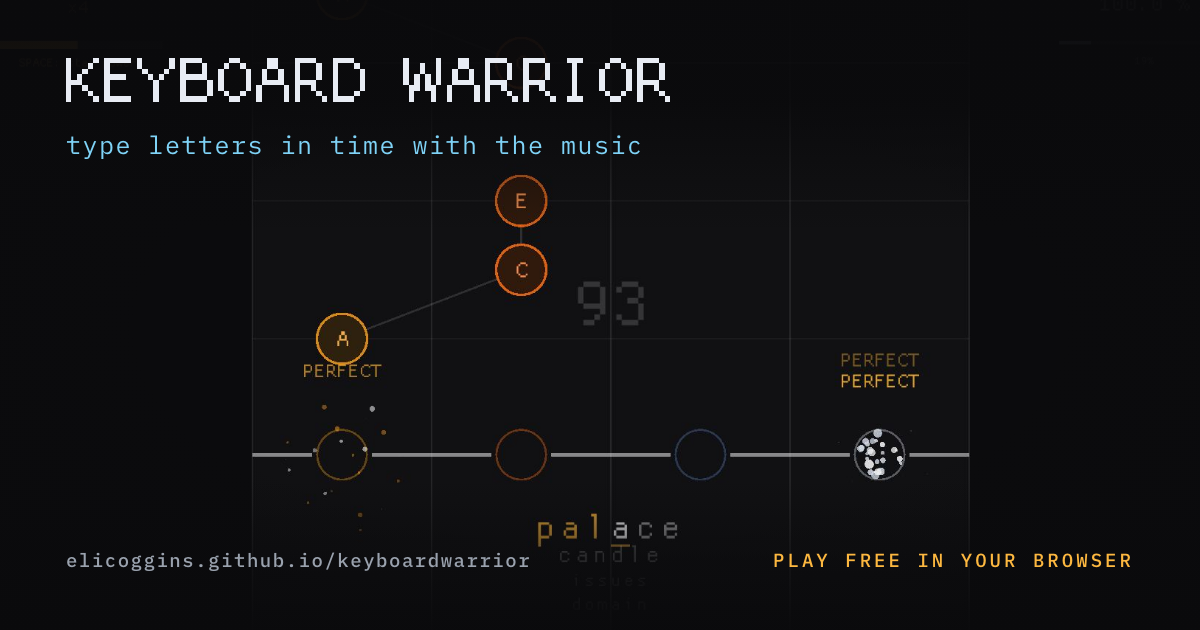
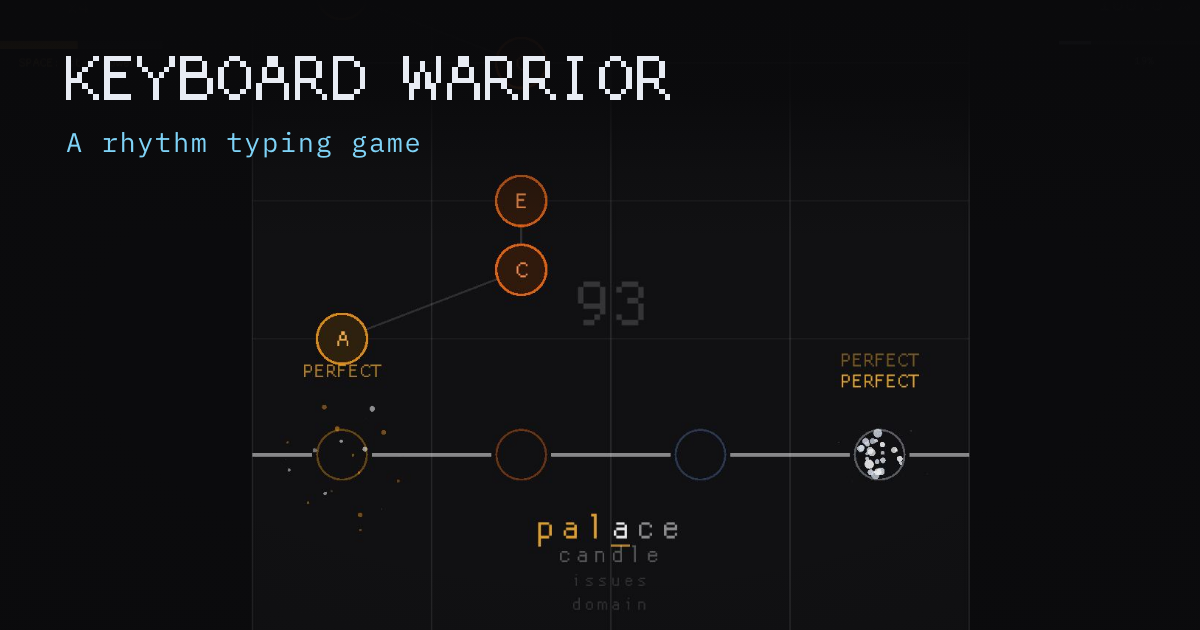
new wasm

diff --git a/keyboardwarrior/index.html b/keyboardwarrior/index.html
@@ -339,13 +339,17 @@
         color: var(--dim);
       }
 
-      /* Qualified by the element, or the rule above out-specifies these and
-         sets the title in body copy. */
-      .fallback p.fallback__mark {
-        font-size: clamp(1.75rem, 9vw, 2.75rem);
-        line-height: 1.15;
-        letter-spacing: 0.04em;
-        color: var(--bright);
+      /* Traced from ProggyClean at the 8-pixel cap height the game's own atlas
+         is baked at, and drawn as geometry rather than set as type. The webfont
+         is the same face and is correct everywhere else on the page, but its
+         outlines antialias — at this size, beside a screenshot of the game
+         drawing the identical words as hard pixel blocks, smooth edges read as
+         the wrong font. crispEdges keeps the grid square at any width. */
+      .fallback__mark {
+        display: block;
+        width: min(21rem, 88%);
+        height: auto;
+        fill: var(--bright);
       }
 
       .fallback p.fallback__sub {
@@ -367,15 +371,32 @@
       .stage[data-mode="unsupported"] .screen { overflow: visible; }
       .stage[data-mode="unsupported"] .fallback { position: static; width: 100%; }
 
+      /* Two ways to fill the screen, because only one of them can be trusted
+         with the ESC key. Which one is chosen is decided in script; both are
+         announced here as data-fs so the rest of the page needs no branch. */
+      .stage[data-fs] .rail { display: none; }
+      .stage[data-fs] #glcanvas { max-width: none; }
+
       .stage:fullscreen { height: 100%; background: var(--bg); }
-      .stage:fullscreen .rail { display: none; }
-      .stage:fullscreen #glcanvas { max-width: none; }
+
+      /* The page's own fullscreen, for browsers that would spend ESC leaving
+         the real one. It gives up the browser's chrome — a strip of height the
+         native path reclaims — and in exchange nothing but this page decides
+         what ESC means. */
+      .stage[data-fs="page"] {
+        position: fixed;
+        inset: 0;
+        z-index: 50;
+        height: 100%;
+        background: var(--bg);
+      }
+
+      html.kw-filled, html.kw-filled body { overflow: hidden; }
 
       /* Safari below 16.4 only has the prefixed form, and one unknown pseudo
-         would throw away the whole selector list — so it gets its own rules. */
+         would throw away the whole selector list — so it gets its own rule.
+         Everything else it needs comes from the data-fs rules above. */
       .stage:-webkit-full-screen { height: 100%; background: var(--bg); }
-      .stage:-webkit-full-screen .rail { display: none; }
-      .stage:-webkit-full-screen #glcanvas { max-width: none; }
 
       /* The menu rules its song list off with a hairline broken by centred type
          (see the alphabet markers in scene/menu.rs). The same rule closes the
@@ -441,20 +462,34 @@
          about 0.44em to the character, so 36rem is roughly 78 of them — long
          enough for the GL_RENDERER note, short enough to read down. Headings
          stay centred over it, the way the menu centres its own labels. */
+      /* ProggyClean advances 0.4375em, so at 18px the column below runs to
+         about eighty characters — the measure a monospace face has been read
+         at for as long as there have been terminals. The side padding is its
+         own, narrower than --gutter, because the gutter is sized for the game
+         above and would spend that measure on empty margin. */
       .sheet {
-        width: min(36rem, 100%);
+        width: min(42rem, 100%);
         margin: 0 auto;
-        padding: clamp(1rem, 3vh, 2rem) var(--gutter) clamp(2.5rem, 7vh, 4rem);
+        padding: clamp(1rem, 3vh, 2rem) clamp(1rem, 3vw, 1.4rem) clamp(2.5rem, 7vh, 4rem);
         text-wrap: pretty;
       }
 
       .lede {
         margin: 0 0 clamp(2rem, 5vh, 3rem);
-        font-size: 1.25rem;
+        font-size: 1.375rem;
         line-height: 1.55;
         color: var(--ink);
         text-wrap: balance;
       }
+
+      .sheet__cta {
+        margin: 0 0 clamp(2rem, 5vh, 3rem);
+        text-align: center;
+      }
+
+      /* On a touch device the card above already carries this exact button a
+         screen higher up; one of them is enough. */
+      .stage[data-mode="unsupported"] ~ .sheet .sheet__cta { display: none; }
 
       .block { margin: 0 0 clamp(1.8rem, 4vh, 2.6rem); }
 
@@ -470,7 +505,7 @@
 
       .block p {
         margin: 0 0 0.9rem;
-        font-size: 1.0625rem;
+        font-size: 1.125rem;
         color: var(--dim);
       }
       .block p:last-child { margin-bottom: 0; }
@@ -522,14 +557,16 @@
              so the card draws it instead — same words, same colours, same
              order as the menu's own opening. -->
         <div class="fallback" id="fallback">
-          <p class="fallback__mark">KEYBOARD WARRIOR</p>
+          <svg class="fallback__mark" viewBox="0 0 111 8" shape-rendering="crispEdges" aria-hidden="true">
+            <path d="M0 0h1v1h-1zM5 0h1v1h-1zM7 0h5v1h-5zM13 0h1v1h-1zM19 0h1v1h-1zM21 0h4v1h-4zM30 0h2v1h-2zM37 0h2v1h-2zM42 0h4v1h-4zM49 0h4v1h-4zM62 0h1v1h-1zM68 0h1v1h-1zM72 0h2v1h-2zM77 0h4v1h-4zM84 0h4v1h-4zM92 0h3v1h-3zM100 0h2v1h-2zM105 0h4v1h-4zM0 1h1v1h-1zM4 1h1v1h-1zM7 1h1v1h-1zM13 1h1v1h-1zM19 1h1v1h-1zM21 1h1v1h-1zM25 1h1v1h-1zM29 1h1v1h-1zM32 1h1v1h-1zM37 1h2v1h-2zM42 1h1v1h-1zM46 1h1v1h-1zM49 1h1v1h-1zM53 1h1v1h-1zM62 1h1v1h-1zM65 1h1v1h-1zM68 1h1v1h-1zM72 1h2v1h-2zM77 1h1v1h-1zM81 1h1v1h-1zM84 1h1v1h-1zM88 1h1v1h-1zM93 1h1v1h-1zM99 1h1v1h-1zM102 1h1v1h-1zM105 1h1v1h-1zM109 1h1v1h-1zM0 2h1v1h-1zM3 2h1v1h-1zM7 2h1v1h-1zM14 2h1v1h-1zM18 2h1v1h-1zM21 2h1v1h-1zM25 2h1v1h-1zM28 2h1v1h-1zM33 2h1v1h-1zM36 2h1v1h-1zM39 2h1v1h-1zM42 2h1v1h-1zM46 2h1v1h-1zM49 2h1v1h-1zM54 2h1v1h-1zM62 2h1v1h-1zM65 2h1v1h-1zM68 2h1v1h-1zM71 2h1v1h-1zM74 2h1v1h-1zM77 2h1v1h-1zM81 2h1v1h-1zM84 2h1v1h-1zM88 2h1v1h-1zM93 2h1v1h-1zM98 2h1v1h-1zM103 2h1v1h-1zM105 2h1v1h-1zM109 2h1v1h-1zM0 3h1v1h-1zM2 3h1v1h-1zM7 3h4v1h-4zM15 3h1v1h-1zM17 3h1v1h-1zM21 3h5v1h-5zM28 3h1v1h-1zM33 3h1v1h-1zM36 3h1v1h-1zM39 3h1v1h-1zM42 3h1v1h-1zM46 3h1v1h-1zM49 3h1v1h-1zM54 3h1v1h-1zM62 3h1v1h-1zM64 3h1v1h-1zM66 3h1v1h-1zM68 3h1v1h-1zM71 3h1v1h-1zM74 3h1v1h-1zM77 3h1v1h-1zM81 3h1v1h-1zM84 3h1v1h-1zM88 3h1v1h-1zM93 3h1v1h-1zM98 3h1v1h-1zM103 3h1v1h-1zM105 3h1v1h-1zM109 3h1v1h-1zM0 4h3v1h-3zM7 4h1v1h-1zM16 4h1v1h-1zM21 4h1v1h-1zM26 4h1v1h-1zM28 4h1v1h-1zM33 4h1v1h-1zM36 4h4v1h-4zM42 4h4v1h-4zM49 4h1v1h-1zM54 4h1v1h-1zM62 4h1v1h-1zM64 4h1v1h-1zM66 4h1v1h-1zM68 4h1v1h-1zM71 4h4v1h-4zM77 4h4v1h-4zM84 4h4v1h-4zM93 4h1v1h-1zM98 4h1v1h-1zM103 4h1v1h-1zM105 4h4v1h-4zM0 5h1v1h-1zM3 5h1v1h-1zM7 5h1v1h-1zM16 5h1v1h-1zM21 5h1v1h-1zM26 5h1v1h-1zM28 5h1v1h-1zM33 5h1v1h-1zM35 5h1v1h-1zM40 5h1v1h-1zM42 5h1v1h-1zM45 5h1v1h-1zM49 5h1v1h-1zM54 5h1v1h-1zM63 5h2v1h-2zM66 5h2v1h-2zM70 5h1v1h-1zM75 5h1v1h-1zM77 5h1v1h-1zM80 5h1v1h-1zM84 5h1v1h-1zM87 5h1v1h-1zM93 5h1v1h-1zM98 5h1v1h-1zM103 5h1v1h-1zM105 5h1v1h-1zM108 5h1v1h-1zM0 6h1v1h-1zM4 6h1v1h-1zM7 6h1v1h-1zM16 6h1v1h-1zM21 6h1v1h-1zM26 6h1v1h-1zM29 6h1v1h-1zM32 6h1v1h-1zM35 6h1v1h-1zM40 6h1v1h-1zM42 6h1v1h-1zM46 6h1v1h-1zM49 6h1v1h-1zM53 6h1v1h-1zM63 6h1v1h-1zM67 6h1v1h-1zM70 6h1v1h-1zM75 6h1v1h-1zM77 6h1v1h-1zM81 6h1v1h-1zM84 6h1v1h-1zM88 6h1v1h-1zM93 6h1v1h-1zM99 6h1v1h-1zM102 6h1v1h-1zM105 6h1v1h-1zM109 6h1v1h-1zM0 7h1v1h-1zM5 7h1v1h-1zM7 7h5v1h-5zM16 7h1v1h-1zM21 7h5v1h-5zM30 7h2v1h-2zM35 7h1v1h-1zM40 7h1v1h-1zM42 7h1v1h-1zM47 7h1v1h-1zM49 7h4v1h-4zM63 7h1v1h-1zM67 7h1v1h-1zM70 7h1v1h-1zM75 7h1v1h-1zM77 7h1v1h-1zM82 7h1v1h-1zM84 7h1v1h-1zM89 7h1v1h-1zM92 7h3v1h-3zM100 7h2v1h-2zM105 7h1v1h-1zM110 7h1v1h-1z" />
+          </svg>
           <p class="fallback__sub">a rhythm typing game</p>
           <picture>
             <source media="(max-width: 44rem)" srcset="/keyboardwarrior/gameplay-tall.jpg" width="812" height="849" />
             <img src="/keyboardwarrior/gameplay.jpg" width="1920" height="1080" alt="Keyboard Warrior gameplay: lettered notes falling toward a strike line, with the lyric being typed underneath" />
           </picture>
           <p id="fallback-copy">
-            keyboard warrior needs a physical keyboard, so it&rsquo;s playable on
+            keyboard warrior needs a physical keyboard, so it's playable on
             desktop only.
           </p>
           <a
@@ -555,6 +592,16 @@
         Clone Hero and YARG.
       </p>
 
+      <p class="sheet__cta">
+        <a
+          class="cap cap--gold"
+          href="https://github.com/elicoggins/keyboardwarrior"
+          target="_blank"
+          rel="noopener noreferrer"
+          >GitHub</a
+        >
+      </p>
+
       <section class="block">
         <h2>Notes</h2>
         <p>
@@ -562,7 +609,7 @@
           <a href="https://github.com/elicoggins/keyboardwarrior" target="_blank" rel="noopener noreferrer">here</a>.
         </p>
         <p>
-          This is only a demo. The game wasn&rsquo;t built for a browser so some
+          This is only a demo. The game wasn't built for a browser so some
           sacrifices had to be made to get it running. The downloadable version is
           the ideal way to play and allows you to easily expand your song library.
         </p>
@@ -578,15 +625,15 @@
       <section class="block">
         <h2>Music</h2>
         <p>
-          &ldquo;Code Monkey&rdquo;, &ldquo;Creepy Doll&rdquo; and
-          &ldquo;Re: Your Brains&rdquo; by
+          "Code Monkey", "Creepy Doll" and
+          "Re: Your Brains" by
           <a href="https://www.jonathancoulton.com" target="_blank" rel="noopener noreferrer">Jonathan Coulton</a>,
           used under
           <a href="https://creativecommons.org/licenses/by-nc/3.0/" target="_blank" rel="noopener noreferrer">CC&nbsp;BY-NC&nbsp;3.0</a>.
         </p>
         <p>
-          &ldquo;Dirtbag&rdquo;, &ldquo;Certain Death&rdquo; and
-          &ldquo;There&rsquo;s Something Wrong&rdquo; by
+          "Dirtbag", "Certain Death" and
+          "There's Something Wrong" by
           <a href="https://www.bradsucks.net" target="_blank" rel="noopener noreferrer">Brad Sucks</a>,
           used under
           <a href="https://creativecommons.org/licenses/by-sa/3.0/" target="_blank" rel="noopener noreferrer">CC&nbsp;BY-SA&nbsp;3.0</a>.
@@ -718,50 +765,108 @@
           fsBtn.addEventListener('mousedown', (e) => e.preventDefault());
 
           // ------------------------------------------------------- fullscreen
+          //
+          // ESC is the game's pause key (playing.rs toggles `transport.paused`
+          // on it) and the Fullscreen API wants the same key for its own exit.
+          // Only one of them can have it.
+          //
+          // Chromium lends it back through Keyboard Lock, and there ESC pauses
+          // in place while a *held* ESC leaves. Nothing else implements it, and
+          // on those browsers the key cannot be shared at all: Safari spends it
+          // on the exit and only hands the keydown to the page afterwards, once
+          // the animated transition is over. A pause that arrives then has
+          // already cost the run every note that fell during the transition,
+          // and no amount of arranging on this side can move it earlier — the
+          // exit event is the first the page hears of it.
+          //
+          // So where the key cannot be kept, the fullscreen is not the
+          // browser's. The stage is pinned over the viewport instead: nothing
+          // intercepts ESC, it reaches the canvas in a millisecond and pauses
+          // instantly, and this button is the way back out. The cost is the
+          // browser's own chrome staying on screen.
           const enterFs = stage.requestFullscreen ?? stage.webkitRequestFullscreen;
           const exitFs = document.exitFullscreen ?? document.webkitExitFullscreen;
           const fsElement = () => document.fullscreenElement ?? document.webkitFullscreenElement;
-          if (enterFs) {
-            fsBtn.addEventListener('click', () => {
-              if (fsElement()) {
-                exitFs.call(document);
-              } else {
-                Promise.resolve(enterFs.call(stage)).catch(() => {});
-              }
-            });
 
-            const onFullscreenChange = () => {
-              const on = fsElement() === stage;
-              fsBtn.textContent = on ? 'Exit fullscreen' : 'Fullscreen';
-
-              if (on) {
-                // ESC is the game's pause key (playing.rs), so fullscreen must
-                // not spend it on its own exit. Keyboard Lock hands ESC back to
-                // the page: the browser's way out becomes a *held* ESC, which
-                // it announces itself, and the button above is the other way.
-                //
-                // Secure-context only. Served over plain HTTP from a LAN
-                // address the API is simply absent, the lock no-ops, and ESC
-                // leaves fullscreen instead of pausing — localhost and the
-                // deployed HTTPS site both lock as intended.
-                navigator.keyboard?.lock?.(['Escape']).catch(() => {});
-                showDrop(4000);
-              } else {
-                navigator.keyboard?.unlock?.();
-              }
-
-              // miniquad only re-reads the canvas box on a window resize, and a
-              // fullscreen transition does not always produce one.
-              requestAnimationFrame(() => {
-                window.dispatchEvent(new Event('resize'));
-                focusGame();
-              });
-            };
-            document.addEventListener('fullscreenchange', onFullscreenChange);
-            document.addEventListener('webkitfullscreenchange', onFullscreenChange);
-          } else {
-            fsBtn.hidden = true;
+          // Learned by asking rather than inferred from the API's presence —
+          // Keyboard Lock can exist and still refuse. Kept because it is a
+          // property of the browser, not of the session, so the one flicker it
+          // costs to find out happens once.
+          const LOCK_MEMO = 'keyboardwarrior.esclock.v1';
+          let escCustody = null;
+          try {
+            escCustody = localStorage.getItem(LOCK_MEMO);
+          } catch {
+            /* private mode: re-learn it each visit */
           }
+          const recordCustody = (verdict) => {
+            escCustody = verdict;
+            try {
+              localStorage.setItem(LOCK_MEMO, verdict);
+            } catch {
+              /* still right for this session */
+            }
+          };
+
+          const setFilled = (mode) => {
+            if (mode) stage.dataset.fs = mode;
+            else delete stage.dataset.fs;
+            document.documentElement.classList.toggle('kw-filled', mode === 'page');
+            fsBtn.textContent = mode ? 'Exit fullscreen' : 'Fullscreen';
+            if (mode) showDrop(4000);
+            // miniquad only re-reads the canvas box on a window resize, and
+            // neither transition reliably produces one.
+            requestAnimationFrame(() => {
+              window.dispatchEvent(new Event('resize'));
+              focusGame();
+            });
+          };
+
+          // Worth trying the browser's own fullscreen: the API is here, it has
+          // not already refused to lend ESC back, and there is a fullscreen to
+          // ask for.
+          const worthAsking = () =>
+            !!enterFs && escCustody !== 'denied' && typeof navigator.keyboard?.lock === 'function';
+
+          let pageAfterExit = false;
+          const fallBackToPage = () => {
+            // It would keep ESC. Come back out and fill the page instead.
+            recordCustody('denied');
+            pageAfterExit = true;
+            exitFs.call(document);
+          };
+
+          fsBtn.addEventListener('click', () => {
+            if (stage.dataset.fs === 'page') {
+              setFilled(null);
+            } else if (fsElement()) {
+              exitFs.call(document);
+            } else if (worthAsking()) {
+              Promise.resolve(enterFs.call(stage)).catch(() => setFilled('page'));
+            } else {
+              setFilled('page');
+            }
+          });
+
+          const onFullscreenChange = () => {
+            if (fsElement() === stage) {
+              setFilled('native');
+              const lock = navigator.keyboard?.lock?.(['Escape']);
+              if (!lock) {
+                fallBackToPage();
+              } else {
+                lock.then(() => recordCustody('held')).catch(fallBackToPage);
+              }
+              return;
+            }
+            if (stage.dataset.fs !== 'native') return;
+            navigator.keyboard?.unlock?.();
+            const next = pageAfterExit ? 'page' : null;
+            pageAfterExit = false;
+            setFilled(next);
+          };
+          document.addEventListener('fullscreenchange', onFullscreenChange);
+          document.addEventListener('webkitfullscreenchange', onFullscreenChange);
         }
 
         // ------------------------------------------------------------- boot

diff --git a/tools/og/og-kw.html b/tools/og/og-kw.html
@@ -52,22 +52,23 @@
         filter: brightness(0.96) saturate(1.08);
       }
 
+      /* Only the top band still has type over it. The bottom is left alone so
+         the strike line and the word being typed — the two things that say
+         "rhythm" and "typing" without a caption — come through unmuddied. */
       .scrim {
         position: absolute;
         inset: 0;
         background:
-          linear-gradient(180deg, rgba(10, 10, 12, 0.97) 0%, rgba(10, 10, 12, 0.9) 16%, rgba(10, 10, 12, 0.35) 27%, rgba(10, 10, 12, 0) 37%),
-          linear-gradient(0deg, rgba(10, 10, 12, 0.95) 0%, rgba(10, 10, 12, 0.62) 10%, rgba(10, 10, 12, 0) 24%),
-          radial-gradient(ellipse 78% 72% at 50% 52%, transparent 45%, rgba(10, 10, 12, 0.5) 100%);
+          linear-gradient(180deg, rgba(10, 10, 12, 1) 0%, rgba(10, 10, 12, 0.9) 15%, rgba(10, 10, 12, 0.3) 27%, rgba(10, 10, 12, 0) 38%),
+          radial-gradient(ellipse 80% 76% at 50% 54%, transparent 48%, rgba(10, 10, 12, 0.42) 100%);
       }
 
       .card {
         position: relative;
         height: 100%;
-        padding: 58px 66px;
+        padding: 56px 66px;
         display: flex;
         flex-direction: column;
-        justify-content: space-between;
       }
 
       /* Traced from ProggyClean at the same 8-pixel cap height the game's own
@@ -79,25 +80,12 @@
       }
 
       .tag {
-        margin-top: 26px;
-        font-size: 25px;
+        margin-top: 24px;
+        font-size: 27px;
         letter-spacing: 0.06em;
         color: var(--cyan);
       }
 
-      .rule {
-        display: flex;
-        justify-content: space-between;
-        align-items: baseline;
-        font-size: 19px;
-        font-weight: 500;
-        letter-spacing: 0.16em;
-        text-transform: uppercase;
-        color: var(--dim);
-      }
-
-      .rule .url { text-transform: none; letter-spacing: 0.08em; }
-      .rule .free { color: var(--amber); }
     </style>
   </head>
   <body>
@@ -109,12 +97,7 @@
         <svg class="mark" viewBox="0 0 111 8" shape-rendering="crispEdges">
           <path d="M0 0h1v1h-1zM5 0h1v1h-1zM7 0h5v1h-5zM13 0h1v1h-1zM19 0h1v1h-1zM21 0h4v1h-4zM30 0h2v1h-2zM37 0h2v1h-2zM42 0h4v1h-4zM49 0h4v1h-4zM62 0h1v1h-1zM68 0h1v1h-1zM72 0h2v1h-2zM77 0h4v1h-4zM84 0h4v1h-4zM92 0h3v1h-3zM100 0h2v1h-2zM105 0h4v1h-4zM0 1h1v1h-1zM4 1h1v1h-1zM7 1h1v1h-1zM13 1h1v1h-1zM19 1h1v1h-1zM21 1h1v1h-1zM25 1h1v1h-1zM29 1h1v1h-1zM32 1h1v1h-1zM37 1h2v1h-2zM42 1h1v1h-1zM46 1h1v1h-1zM49 1h1v1h-1zM53 1h1v1h-1zM62 1h1v1h-1zM65 1h1v1h-1zM68 1h1v1h-1zM72 1h2v1h-2zM77 1h1v1h-1zM81 1h1v1h-1zM84 1h1v1h-1zM88 1h1v1h-1zM93 1h1v1h-1zM99 1h1v1h-1zM102 1h1v1h-1zM105 1h1v1h-1zM109 1h1v1h-1zM0 2h1v1h-1zM3 2h1v1h-1zM7 2h1v1h-1zM14 2h1v1h-1zM18 2h1v1h-1zM21 2h1v1h-1zM25 2h1v1h-1zM28 2h1v1h-1zM33 2h1v1h-1zM36 2h1v1h-1zM39 2h1v1h-1zM42 2h1v1h-1zM46 2h1v1h-1zM49 2h1v1h-1zM54 2h1v1h-1zM62 2h1v1h-1zM65 2h1v1h-1zM68 2h1v1h-1zM71 2h1v1h-1zM74 2h1v1h-1zM77 2h1v1h-1zM81 2h1v1h-1zM84 2h1v1h-1zM88 2h1v1h-1zM93 2h1v1h-1zM98 2h1v1h-1zM103 2h1v1h-1zM105 2h1v1h-1zM109 2h1v1h-1zM0 3h1v1h-1zM2 3h1v1h-1zM7 3h4v1h-4zM15 3h1v1h-1zM17 3h1v1h-1zM21 3h5v1h-5zM28 3h1v1h-1zM33 3h1v1h-1zM36 3h1v1h-1zM39 3h1v1h-1zM42 3h1v1h-1zM46 3h1v1h-1zM49 3h1v1h-1zM54 3h1v1h-1zM62 3h1v1h-1zM64 3h1v1h-1zM66 3h1v1h-1zM68 3h1v1h-1zM71 3h1v1h-1zM74 3h1v1h-1zM77 3h1v1h-1zM81 3h1v1h-1zM84 3h1v1h-1zM88 3h1v1h-1zM93 3h1v1h-1zM98 3h1v1h-1zM103 3h1v1h-1zM105 3h1v1h-1zM109 3h1v1h-1zM0 4h3v1h-3zM7 4h1v1h-1zM16 4h1v1h-1zM21 4h1v1h-1zM26 4h1v1h-1zM28 4h1v1h-1zM33 4h1v1h-1zM36 4h4v1h-4zM42 4h4v1h-4zM49 4h1v1h-1zM54 4h1v1h-1zM62 4h1v1h-1zM64 4h1v1h-1zM66 4h1v1h-1zM68 4h1v1h-1zM71 4h4v1h-4zM77 4h4v1h-4zM84 4h4v1h-4zM93 4h1v1h-1zM98 4h1v1h-1zM103 4h1v1h-1zM105 4h4v1h-4zM0 5h1v1h-1zM3 5h1v1h-1zM7 5h1v1h-1zM16 5h1v1h-1zM21 5h1v1h-1zM26 5h1v1h-1zM28 5h1v1h-1zM33 5h1v1h-1zM35 5h1v1h-1zM40 5h1v1h-1zM42 5h1v1h-1zM45 5h1v1h-1zM49 5h1v1h-1zM54 5h1v1h-1zM63 5h2v1h-2zM66 5h2v1h-2zM70 5h1v1h-1zM75 5h1v1h-1zM77 5h1v1h-1zM80 5h1v1h-1zM84 5h1v1h-1zM87 5h1v1h-1zM93 5h1v1h-1zM98 5h1v1h-1zM103 5h1v1h-1zM105 5h1v1h-1zM108 5h1v1h-1zM0 6h1v1h-1zM4 6h1v1h-1zM7 6h1v1h-1zM16 6h1v1h-1zM21 6h1v1h-1zM26 6h1v1h-1zM29 6h1v1h-1zM32 6h1v1h-1zM35 6h1v1h-1zM40 6h1v1h-1zM42 6h1v1h-1zM46 6h1v1h-1zM49 6h1v1h-1zM53 6h1v1h-1zM63 6h1v1h-1zM67 6h1v1h-1zM70 6h1v1h-1zM75 6h1v1h-1zM77 6h1v1h-1zM81 6h1v1h-1zM84 6h1v1h-1zM88 6h1v1h-1zM93 6h1v1h-1zM99 6h1v1h-1zM102 6h1v1h-1zM105 6h1v1h-1zM109 6h1v1h-1zM0 7h1v1h-1zM5 7h1v1h-1zM7 7h5v1h-5zM16 7h1v1h-1zM21 7h5v1h-5zM30 7h2v1h-2zM35 7h1v1h-1zM40 7h1v1h-1zM42 7h1v1h-1zM47 7h1v1h-1zM49 7h4v1h-4zM63 7h1v1h-1zM67 7h1v1h-1zM70 7h1v1h-1zM75 7h1v1h-1zM77 7h1v1h-1zM82 7h1v1h-1zM84 7h1v1h-1zM89 7h1v1h-1zM92 7h3v1h-3zM100 7h2v1h-2zM105 7h1v1h-1zM110 7h1v1h-1z" />
         </svg>
-        <p class="tag">type letters in time with the music</p>
-      </div>
-
-      <div class="rule">
-        <span class="url">elicoggins.github.io/keyboardwarrior</span>
-        <span class="free">Play free in your browser</span>
+        <p class="tag">A rhythm typing game</p>
       </div>
     </div>
   </body>
